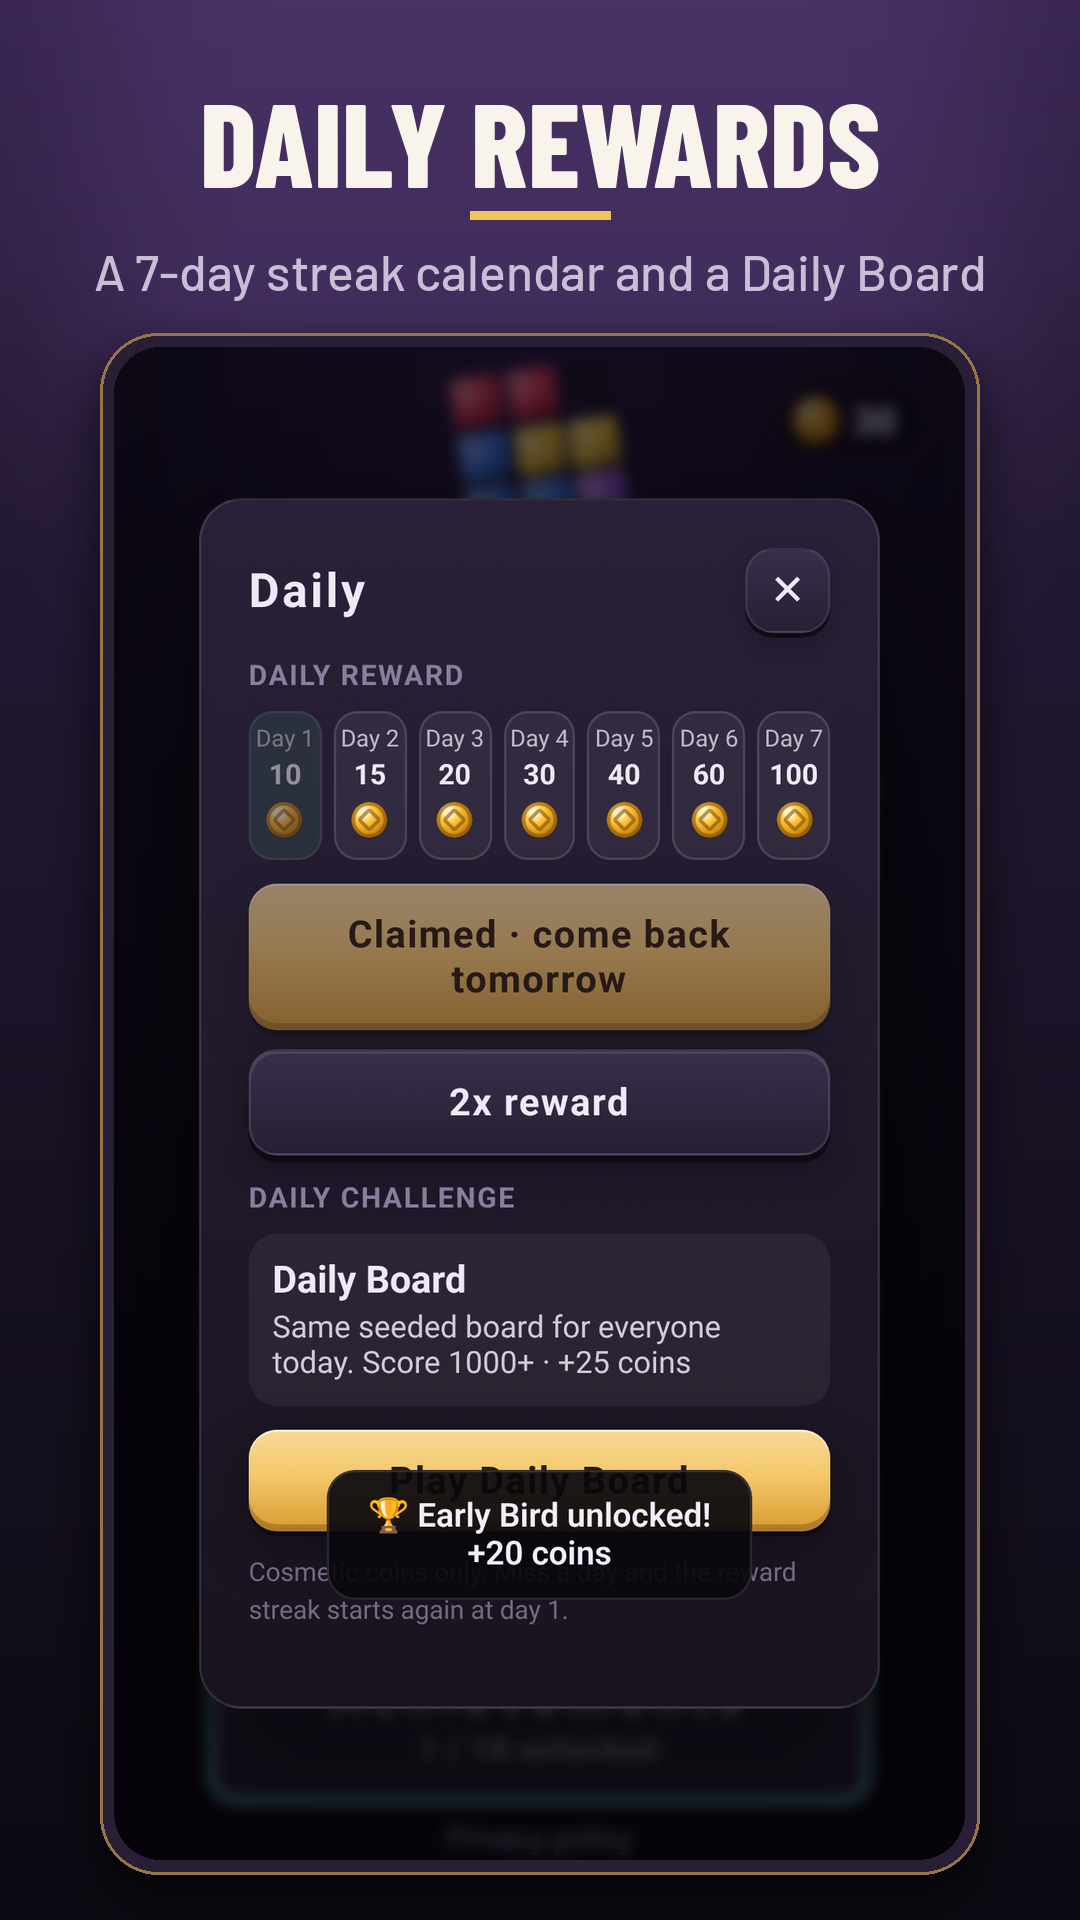
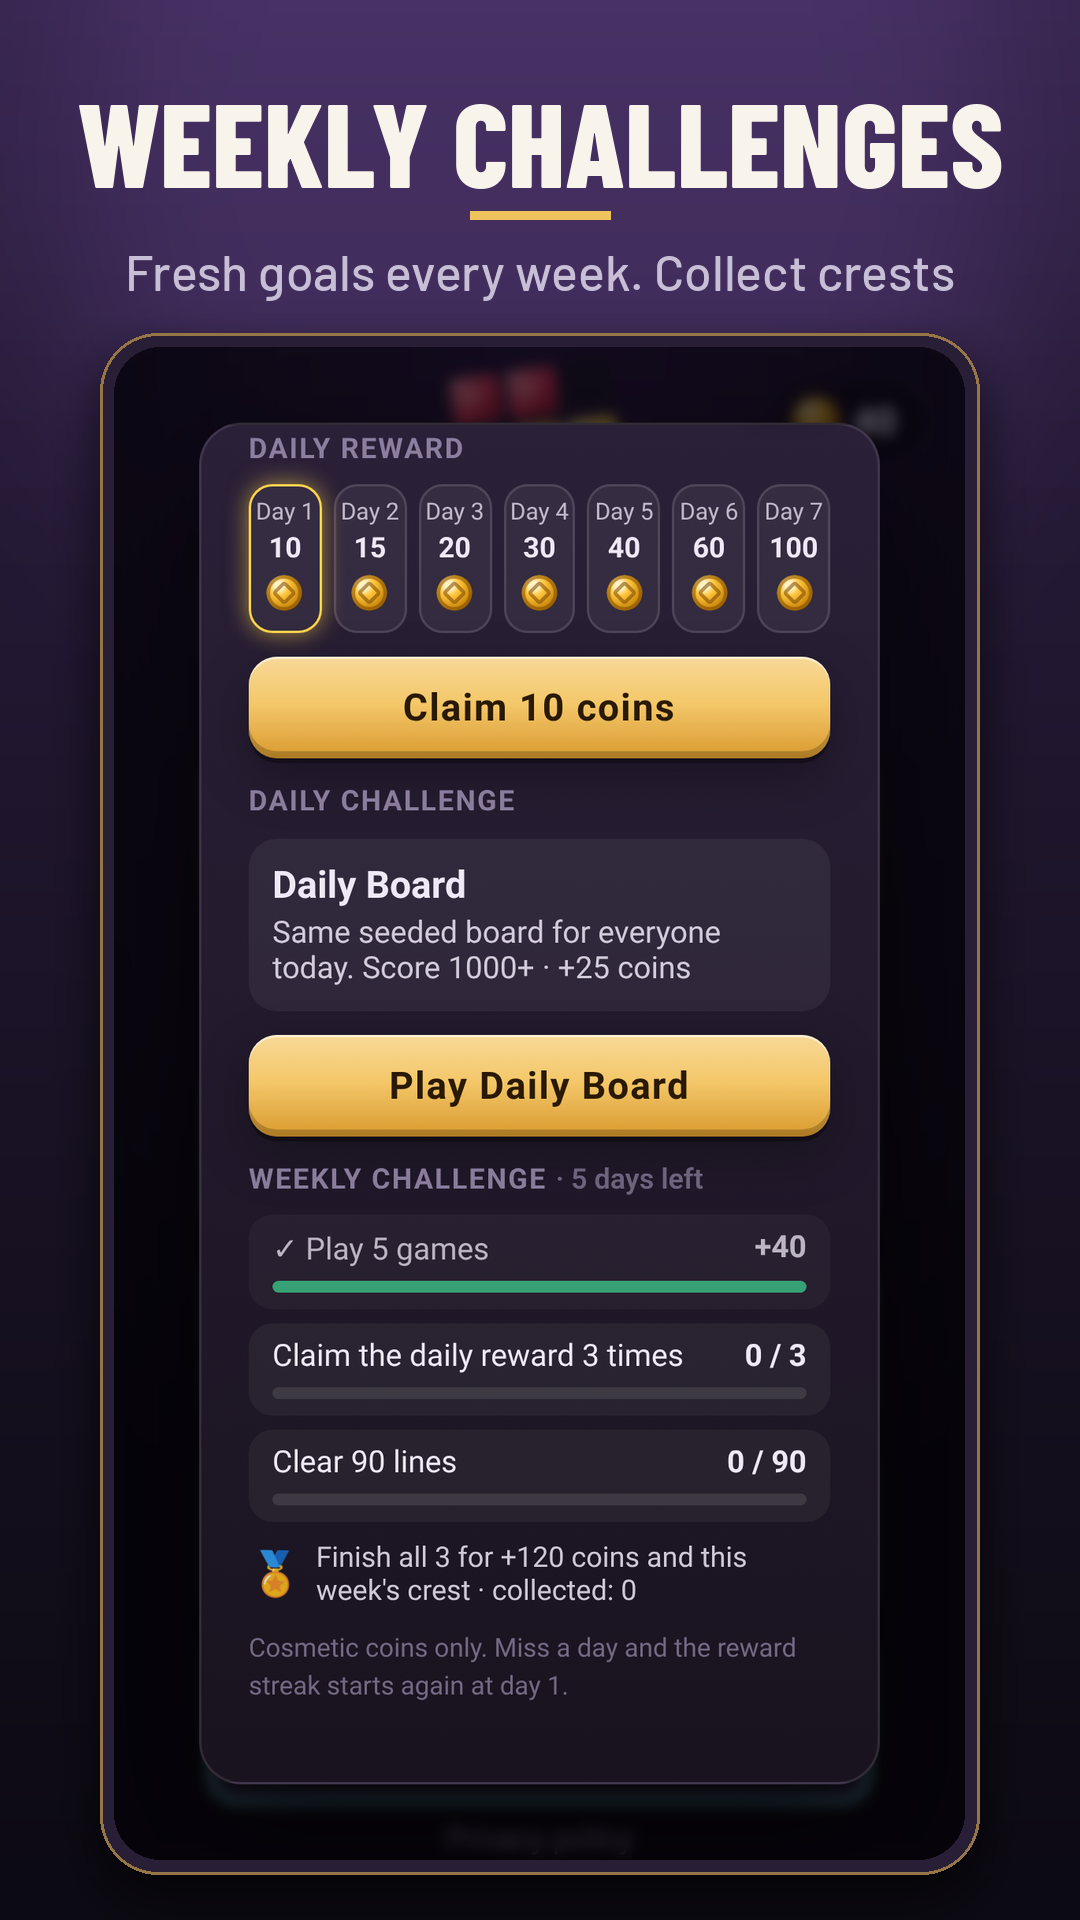
v1.9.0: screen-reader labels + non-drag placement, accessible theme preview, sudoku top bar fix, refreshed store kit

Changed region(s): [[0.1833, 0.2188, 0.825, 0.9062], [0.0611, 0.0312, 0.9472, 0.1562]]

diff --git a/www/js/game.js b/www/js/game.js
@@ -101,12 +101,15 @@
   // ---------------- rendering ----------------
   function buildBoard() {
     var b = $('board'); b.innerHTML = ''; cells = [];
-    for (var i = 0; i < N * N; i++) { var d = document.createElement('div'); d.className = 'cell'; d.dataset.i = i; b.appendChild(d); cells.push(d); }
+    for (var i = 0; i < N * N; i++) { var d = document.createElement('div'); d.className = 'cell'; d.dataset.i = i; d.setAttribute('role', 'button'); d.tabIndex = -1; d.addEventListener('click', srCellClick); b.appendChild(d); cells.push(d); }
+    b.setAttribute('role', 'group'); b.setAttribute('aria-label', N + ' by ' + N + ' board');
   }
   function renderBoard() {
     for (var i = 0; i < N * N; i++) {
       var v = G.board[i];
       cells[i].className = v ? 'cell f c' + v : 'cell';
+      var lab = 'Row ' + (Math.floor(i / N) + 1) + ', column ' + (i % N + 1) + (v ? ', filled ' + SR_COL[v] : ', empty');
+      if (cells[i].getAttribute('aria-label') !== lab) cells[i].setAttribute('aria-label', lab);
     }
   }
   function pieceEl(id, color) {
@@ -127,7 +130,11 @@
       var slot = document.querySelector('.slot[data-slot="' + i + '"]');
       slot.innerHTML = ''; slot.classList.remove('dragging', 'nofit');
       var id = G.tray[i];
-      if (id == null) continue;
+      slot.setAttribute('role', 'button'); slot.tabIndex = 0;
+      slot.classList.toggle('sr-sel', srPick === i && id != null);
+      if (id == null) { slot.setAttribute('aria-label', 'Tray slot ' + (i + 1) + ': used'); continue; }
+      var pp = L.PIECES[id], fits = L.fitsAnywhere(G.board, pp);
+      slot.setAttribute('aria-label', 'Piece ' + (i + 1) + ': ' + pp.size + ' ' + SR_COL[G.colors[i]] + ' blocks, ' + pp.wd + ' wide by ' + pp.h + ' tall, ' + srShape(pp) + (fits ? '' : ", doesn't fit anywhere") + (srPick === i ? ', selected' : ''));
       var el = pieceEl(id, G.colors[i]);
       if (animate) { el.classList.add('enter'); el.style.animationDelay = (i * 70) + 'ms'; }
       slot.appendChild(el);
@@ -184,6 +191,35 @@
     lines.rows.forEach(function (r) { for (var c = 0; c < N; c++) mark(r * N + c); });
     lines.cols.forEach(function (c) { for (var r = 0; r < N; r++) mark(r * N + c); });
     function mark(i) { var el = cells[i]; el.classList.add(el.classList.contains('f') ? 'will-clear' : 'lane-glow'); }
+  }
+  // ---------------- screen reader / keyboard placement (v1.9) ----------------
+  // Activate a tray piece (TalkBack double-tap or Enter/Space), then a board cell = top-left of the piece.
+  var SR_COL = ['', 'red', 'orange', 'yellow', 'green', 'blue', 'purple', 'cyan'], srPick = -1;
+  function srShape(p) {
+    var rows = [];
+    for (var r = 0; r < p.h; r++) { var s = ''; for (var c = 0; c < p.wd; c++) s += p.cells.some(function (q) { return q[0] === r && q[1] === c; }) ? 'X' : 'o'; rows.push(s); }
+    return 'rows ' + rows.join(' / ');
+  }
+  function srSlotActivate(i) {
+    if (busy || drag || G.over || G.tray[i] == null) return;
+    srPick = srPick === i ? -1 : i; SFX.pick(); renderTray(false);
+    if (window.SR) window.SR.say(srPick < 0 ? 'Selection cleared.' : 'Piece ' + (i + 1) + ' selected. Choose the board cell for its top-left corner.');
+  }
+  function srCellClick(e) {
+    if (!window.SR || !window.SR.assistive(e)) return;
+    var i = +e.currentTarget.dataset.i, r = Math.floor(i / N), c = i % N;
+    if (busy || drag || G.over) return;
+    if (srPick < 0 || G.tray[srPick] == null) { window.SR.say('Pick a piece from the tray first.'); return; }
+    var p = L.PIECES[G.tray[srPick]];
+    if (r + p.h > N || c + p.wd > N || !L.canPlace(G.board, p, r, c)) { SFX.error(); window.SR.say("Doesn't fit there."); return; }
+    var slot = document.querySelector('.slot[data-slot="' + srPick + '"]'), sr = slot.getBoundingClientRect();
+    var el = document.createElement('div'); el.id = 'drag'; el.appendChild(pieceEl(G.tray[srPick], G.colors[srPick]));
+    el.style.transform = 'translate(' + sr.left + 'px,' + sr.top + 'px)'; document.body.appendChild(el); slot.classList.add('dragging');
+    var d = { i: srPick, p: p, el: el, slot: slot, target: { r: r, c: c } }; srPick = -1;
+    var before = G.score;
+    Promise.resolve(commit(d)).then(function () {
+      window.SR.say('Placed. Score ' + G.score + (G.score - before > p.size ? ', lines cleared' : '') + (G.over ? '. No moves left, game over.' : '.'));
+    });
   }
   function onDown(e) {
     var slot = e.currentTarget, i = +slot.dataset.slot;
@@ -411,6 +447,8 @@
   // ---------------- wiring ----------------
   Array.prototype.forEach.call(document.querySelectorAll('.slot'), function (s) {
     s.addEventListener('pointerdown', onDown);
+    s.addEventListener('click', function (e) { if (window.SR && window.SR.assistive(e)) srSlotActivate(+e.currentTarget.dataset.slot); });
+    s.addEventListener('keydown', function (e) { if (e.key === 'Enter' || e.key === ' ') { e.preventDefault(); srSlotActivate(+e.currentTarget.dataset.slot); } });
     s.addEventListener('pointermove', onMove);
     s.addEventListener('pointerup', onUp);
     s.addEventListener('pointercancel', onUp);
@@ -552,6 +590,7 @@
   window.__weekly = weekly;
 
   // ---------------- boot ----------------
+  if (window.A11y && window.A11y.previewBar) window.A11y.previewBar({ settings: save.settings, marks: true, rerender: function () { if (typeof renderShop === 'function') renderShop(); }, sfx: function () { SFX.click(); } });
   if (window.A11y) window.A11y.apply(save.settings);
   SFX.setEnabled(save.settings.sound);
   applyTheme(); setCoins(); buildBoard();

diff --git a/www/js/a11y.js b/www/js/a11y.js
@@ -40,6 +40,38 @@
     });
   };
   A.sync = function (settings, ids) { A.apply(settings); Object.keys(ids).forEach(function (k) { var el = document.getElementById(ids[k]); if (el) el.checked = k === 'reduceMotion' ? A.reduced() : !!settings[k]; }); };
+
+  /**
+   * v1.9 shop preview: "Preview with" chips (High contrast / Larger text / Symbols) in the shop panel.
+   * Temporary only: nothing is saved, and the real settings are restored when the shop closes.
+   */
+  A.preview = { contrast: null, largeText: null, marks: null };
+  A.marksOn = function (settings) { return A.preview.marks != null ? A.preview.marks : !!(settings && settings.marks); };
+  A.previewBar = function (o) {
+    var ov = document.getElementById(o.overlay || 'shop'); if (!ov) return null;
+    var panel = ov.querySelector('.panel'), anchor = panel.querySelector('.note');
+    var bar = document.createElement('div'); bar.className = 'a11y-preview'; bar.setAttribute('role', 'group'); bar.setAttribute('aria-label', 'Preview themes with accessibility options');
+    bar.innerHTML = '<span class="a11y-preview-l">Preview with:</span>';
+    var chips = [['contrast', 'High contrast'], ['largeText', 'Larger text']].concat(o.marks ? [['marks', 'Symbols']] : []);
+    function cur(k) { return A.preview[k] != null ? A.preview[k] : !!o.settings[k]; }
+    function paint() {
+      var cl = document.documentElement.classList;
+      cl.toggle('a11y-contrast', cur('contrast')); cl.toggle('a11y-large', cur('largeText'));
+      if (o.marks) document.body.classList.toggle('marks', cur('marks'));
+      Array.prototype.forEach.call(bar.querySelectorAll('button'), function (b) { var on = cur(b.dataset.k); b.classList.toggle('on', on); b.setAttribute('aria-pressed', on ? 'true' : 'false'); });
+    }
+    chips.forEach(function (c) {
+      var b = document.createElement('button'); b.type = 'button'; b.className = 'chip'; b.dataset.k = c[0]; b.textContent = c[1];
+      b.addEventListener('click', function () { A.preview[c[0]] = !cur(c[0]); paint(); if (o.rerender) o.rerender(); if (o.sfx) o.sfx(); });
+      bar.appendChild(b);
+    });
+    if (anchor && anchor.nextSibling) panel.insertBefore(bar, anchor.nextSibling); else panel.appendChild(bar);
+    function reset() { A.preview = { contrast: null, largeText: null, marks: null }; A.apply(o.settings); if (o.marks) document.body.classList.toggle('marks', !!o.settings.marks); if (o.rerender) o.rerender(); paint(); }
+    new MutationObserver(function () { if (ov.classList.contains('hidden')) { if (A.preview.contrast != null || A.preview.largeText != null || A.preview.marks != null) reset(); } else paint(); })
+      .observe(ov, { attributes: true, attributeFilter: ['class'] });
+    paint();
+    return { reset: reset, paint: paint };
+  };
   if (typeof Element !== 'undefined' && Element.prototype.animate && !Element.prototype.animate.__a11y) {
     var orig = Element.prototype.animate;
     var wrapped = function (frames, opts) {

diff --git a/www/css/style.css b/www/css/style.css
@@ -436,3 +436,13 @@ html.a11y-contrast .cell:not(.f) { box-shadow: inset 0 0 0 1px rgba(255,255,255,
 body.marks .cell.f::before { content: var(--mk, ''); position: absolute; inset: 0; display: grid; place-items: center; z-index: 1; pointer-events: none;
   font-size: calc(var(--cs, 24px) * .44); line-height: 1; color: rgba(0,0,0,.6); text-shadow: 0 1px 0 rgba(255,255,255,.35); }
 body.marks .piece .cell.f::before { font-size: calc(var(--pcs, 20px) * .44); }
+/* Screen-reader helpers (v1.9) */
+.sr-only { position: absolute !important; width: 1px; height: 1px; padding: 0; margin: -1px; overflow: hidden; clip: rect(0 0 0 0); white-space: nowrap; border: 0; }
+.sr-grid { position: absolute; inset: 0; pointer-events: none; z-index: 2; }
+.sr-grid button { position: absolute; width: 44px; height: 44px; transform: translate(-50%, -50%); background: transparent; border: 0; padding: 0; color: transparent; font-size: 1px; }
+.sr-grid button:focus-visible, .slot:focus-visible, #board .cell:focus-visible { outline: 3px solid #ffd400; outline-offset: 2px; border-radius: 8px; }
+.slot.sr-sel { outline: 3px dashed #ffd400; outline-offset: -3px; border-radius: 12px; }
+.a11y-preview { display: flex; flex-wrap: wrap; align-items: center; gap: 6px; margin: 2px 0 8px; font-size: 12px; }
+.a11y-preview-l { opacity: .75; font-weight: 700; }
+.a11y-preview .chip { padding: 5px 10px; border-radius: 999px; border: 1px solid rgba(127,127,127,.45); background: rgba(127,127,127,.12); font-size: 12px; font-weight: 700; color: inherit; }
+.a11y-preview .chip.on { background: #ffd400; color: #1a1400; border-color: #ffd400; }

diff --git a/test/v19.test.js b/test/v19.test.js
@@ -1,0 +1,16 @@
+const assert = require('assert'), fs = require('fs'), dir = __dirname + '/../www/';
+const SR = require('../www/js/sr.js');
+assert.strictEqual(SR.assistive({ type: 'click', detail: 0 }), true, 'keyboard/TalkBack click');
+assert.strictEqual(SR.assistive({ type: 'click', detail: 1 }), false, 'real tap is not assistive');
+assert.strictEqual(SR.assistive({ type: 'pointerdown', detail: 0 }), false);
+const A = require('../www/js/a11y.js');
+assert.strictEqual(typeof A.previewBar, 'function');
+assert.strictEqual(A.marksOn({ marks: true }), true); A.preview.marks = false; assert.strictEqual(A.marksOn({ marks: true }), false, 'preview overrides'); A.preview.marks = null;
+const html = fs.readFileSync(dir + 'index.html', 'utf8'), game = fs.readFileSync(dir + 'js/game.js', 'utf8'), css = fs.readFileSync(dir + 'css/style.css', 'utf8');
+assert(html.indexOf('js/sr.js') > 0 && html.indexOf('js/sr.js') < html.indexOf('js/game.js'));
+assert(/previewBar\(/.test(game) && css.includes('.sr-only') && css.includes('.a11y-preview'));
+const name = fs.realpathSync(__dirname);
+if (/hexa-sort/.test(name)) assert(/function srSync/.test(game) && /cv\.setAttribute\('aria-hidden'/.test(game), 'hexa canvas has an accessible overlay');
+if (/block-puzzle/.test(name)) assert(/srSlotActivate/.test(game) && /'Piece ' \+ \(i \+ 1\)/.test(game), 'block tray pieces are labelled + activatable');
+if (/sudoku/.test(name)) { assert(/'Row ' \+ \(L\.ROW\[i\] \+ 1\)/.test(game), 'sudoku cells labelled'); assert(!/b\.daily::before/.test(css), 'top bar no longer prefixes Daily'); }
+console.log('v1.9 tests ok');

diff --git a/www/js/sr.js b/www/js/sr.js
@@ -1,0 +1,22 @@
+/* Screen-reader helpers (v1.9): polite live region + "is this an assistive/keyboard activation?" */
+(function (root) {
+  'use strict';
+  var live = null, t = null;
+  var SR = {
+    say: function (msg) {
+      if (typeof document === 'undefined' || !msg) return;
+      if (!live) {
+        live = document.getElementById('sr-live');
+        if (!live) { live = document.createElement('div'); live.id = 'sr-live'; live.className = 'sr-only'; live.setAttribute('aria-live', 'polite'); live.setAttribute('role', 'status'); document.body.appendChild(live); }
+      }
+      clearTimeout(t); live.textContent = '';
+      t = setTimeout(function () { live.textContent = msg; }, 60);
+    },
+    /** TalkBack double-tap and keyboard Enter/Space produce clicks with detail 0 (no real pointer) */
+    assistive: function (e) { return !!e && e.type === 'click' && !e.detail; },
+    COLORS: ['red', 'orange', 'yellow', 'green', 'teal', 'blue', 'purple', 'pink', 'cyan', 'lime'],
+    last: function () { return live ? live.textContent : ''; }
+  };
+  root.SR = SR;
+  if (typeof module !== 'undefined' && module.exports) module.exports = SR;
+})(typeof window !== 'undefined' ? window : globalThis);

diff --git a/www/index.html b/www/index.html
@@ -128,7 +128,7 @@
           <button id="btn-replay-tutorial" class="btn plate" type="button">Replay tutorial</button>
           <button id="btn-reset" class="btn plate danger">Reset progress</button>
         </div>
-        <p class="ver">Gridstone v1.8.0 · © OfferPk</p>
+        <p class="ver">Gridstone v1.9.0 · © OfferPk</p>
       </div>
     </div>
 
@@ -159,6 +159,7 @@
   <script src="js/sound.js"></script>
   <script src="js/themes.js"></script>
   <script src="js/a11y.js"></script>
+  <script src="js/sr.js"></script>
   <script src="js/daily.js"></script>
   <script src="js/weekly.js"></script>
   <script src="js/weekly-goals.js"></script>

diff --git a/store/make_store_art.py b/store/make_store_art.py
@@ -21,8 +21,8 @@ CAPTIONS = [
     ('04', '7-shop', 'PREMIUM THEMES', 'Jewel, walnut, jade & more. Cosmetic only'),
     ('05', '6-marble', 'CALM, CLEAN, CLASSY', 'No timers. Think, place, relax'),
     ('06', '4-jade', 'FAIR PIECES EVERY TIME', 'Smart dealer avoids impossible sets. Plays offline'),
-    ('07', 'v15-daily', 'DAILY REWARDS', 'A 7-day streak calendar and a Daily Board'),
-    ('08', 'v15-ach', 'ACHIEVEMENTS & STATS', '18 goals to chase. Track your best runs'),
+    ('07', 'v19-weekly', 'WEEKLY CHALLENGES', 'Fresh goals every week. Collect crests'),
+    ('08', 'v19-a11y', 'PLAY YOUR WAY', 'Color symbols, high contrast, larger text'),
 ]
 
 

diff --git a/store/LISTING-v1.9.md b/store/LISTING-v1.9.md
@@ -1,0 +1,77 @@
+# Store listing v1.9.0: Gridstone: Block Puzzle 8x8 (English, en-US)
+
+Package: `com.offerpk.blockpuzzle` · Version 1.9.0 (versionCode 12). Supersedes `LISTING-v1.5.md` (app name unchanged).
+
+## Short description (limit 80)
+
+**79 / 80 characters**
+
+```
+Relaxing 8x8 block puzzle: clear lines, daily rewards, no timer. Plays offline.
+```
+
+## Full description (limit 4000)
+
+**2126 / 4000 characters** (Python `len()`; bullets count as 1)
+
+```
+Gridstone is a calm, polished 8x8 block puzzle. Drag gem blocks onto the board, fill rows and columns, and watch them shatter. No timer and no pressure: think, place, relax.
+
+HOW TO PLAY
+• Drag pieces from the tray onto the 8x8 board
+• Fill a row or column to clear it; clear several at once for big combos
+• Streak bonuses reward clearing on consecutive moves
+• The game ends when no piece fits. Beat your best score
+
+COME BACK EVERY DAY
+• A Daily Board with the same seeded start for everyone, plus a 7-day reward calendar
+• Rising coin rewards for a 7-day streak (miss a day and it restarts)
+• Daily challenge streaks
+
+WEEKLY CHALLENGE
+• Three new goals every week, the same for every player
+• Earn coins and collect a crest badge for each completed week, shown in your Achievements
+• A gentle mid-week reminder on the Daily card (never a notification)
+
+ACHIEVEMENTS & STATS
+• 18 achievements for progress, skill, streaks, daily challenges and collecting
+• Stats: games played, best results, coins earned and your longest play streak
+
+SKIN SHOP
+• 12 block themes (Jewel, Walnut, Sakura Paper, Coral Reef, Jade & Gold, Neon Arcade, Obsidian, Marble, Tide Pool, Ember Kiln, Nebula Glass, Moss & Stone) and backgrounds
+• Preview before you buy. Everything is cosmetic and bought with coins you earn in the game
+• No real-money purchases, no loot boxes, no cash-out
+
+MADE FOR RELAXING
+• Plays fully offline
+• Friendly first-level tutorial (replay it any time from Settings)
+• Sound and haptics toggles, see Accessibility below
+
+ACCESSIBILITY
+• Reduce motion (follows your phone setting, or choose yourself)
+• Larger text and a high-contrast mode
+• Color symbols on every piece for color-blind players
+• Screen-reader support: every tray piece and board cell is labelled, and you can place pieces without dragging (select a piece, then a cell)
+• Preview shop themes with these options turned on before you buy
+
+ADS
+The game is free and shows ads. Optional rewarded ads play only when you tap a button (for example a hint or a free 24-hour skin try). Full-screen ads only appear between finished games or levels, never at launch.
+```
+
+## What's new (release notes, limit 500)
+
+```
+New: weekly challenge with collectible crests, a crest showcase in Achievements, and accessibility options (reduce motion, larger text, high contrast, color symbols). Better screen-reader support and new shop themes. Preview themes with accessibility options on.
+```
+
+## Graphics in this folder
+
+| Asset | File | Size |
+|---|---|---|
+| Phone screenshots (8) | `store/screenshots/01.png` … `08.png` | 1080×1920 each |
+| Feature graphic | `store/feature-graphic-1024x500.png` | 1024×500 |
+| App icon | `store/icon-512.png` | 512×512 (see `ICON-CHECK.md`) |
+
+Screenshots 07 (daily + weekly goals) and 08 (accessibility options on) are new in v1.9.0; 01–06 are unchanged.
+
+Data safety: no change from `DATA-SAFETY-v1.5.md` (weekly goals, crests and accessibility settings are stored on the device only).
